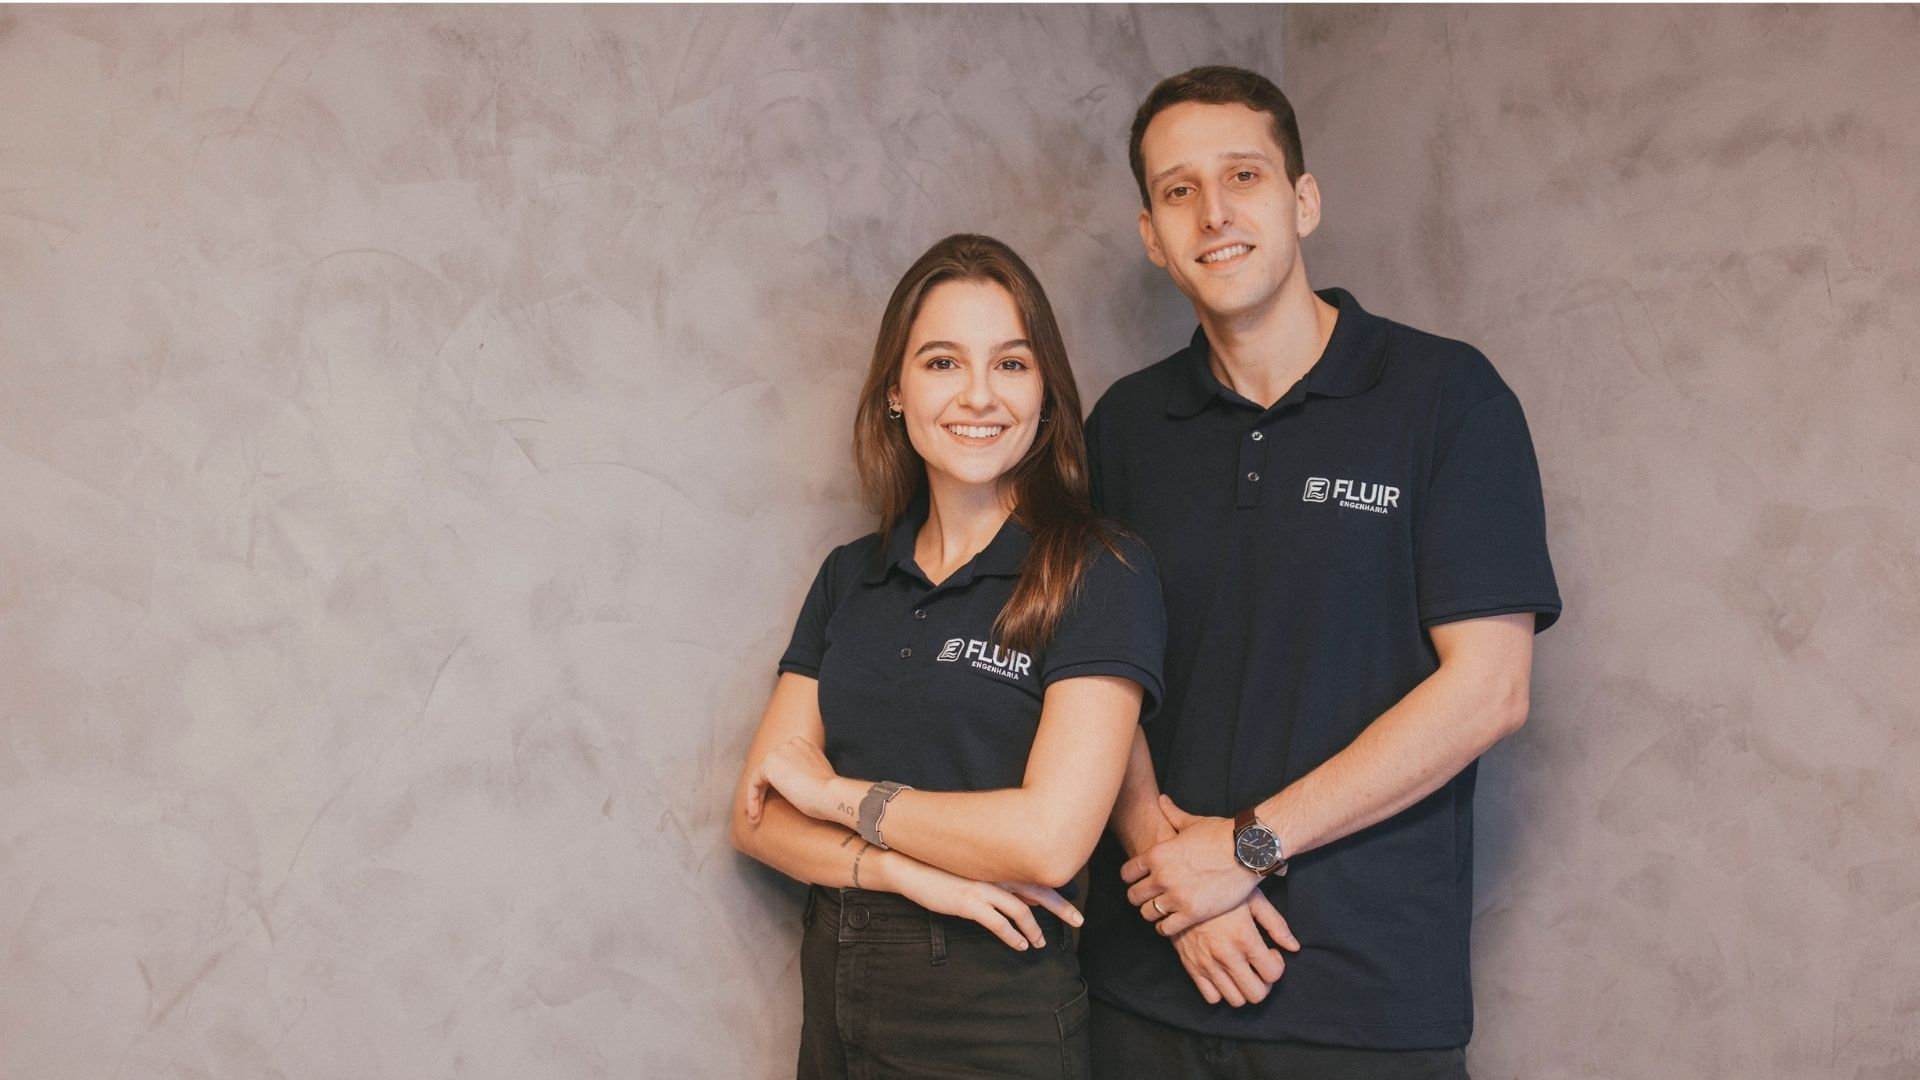
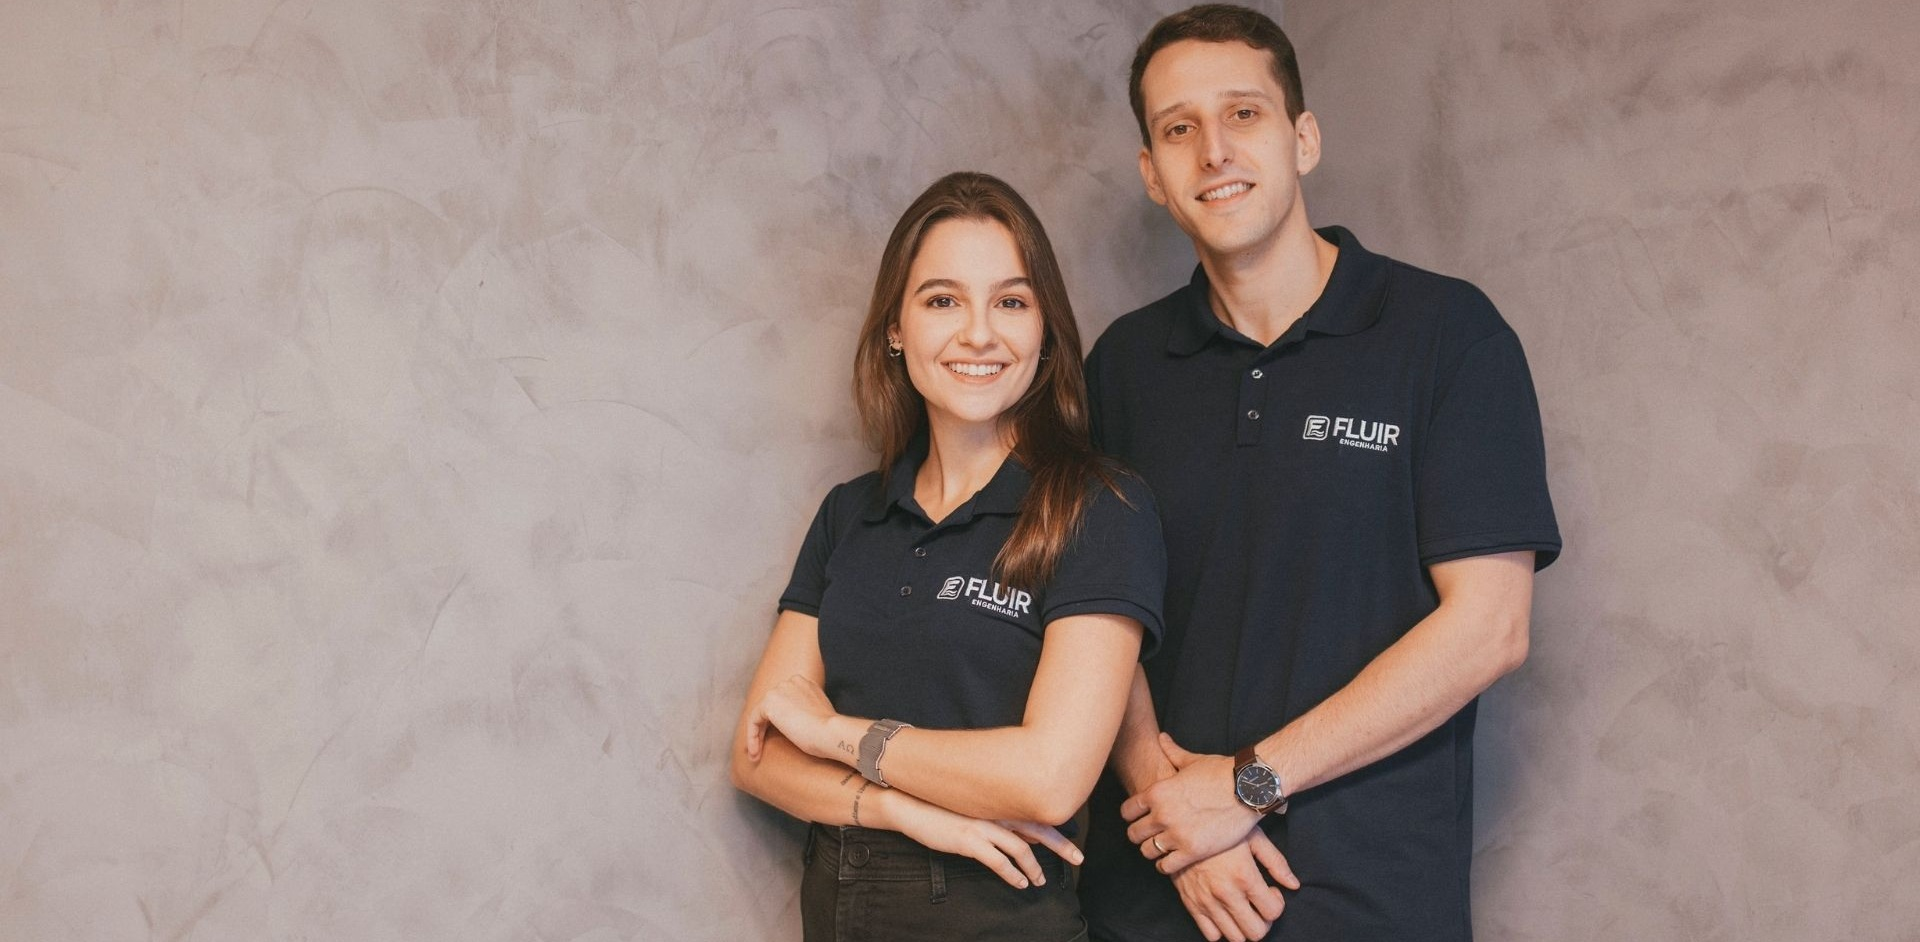
Updates

diff --git a/index.html b/index.html
@@ -9,7 +9,7 @@
     <link rel="preconnect" href="https://fonts.googleapis.com" />
     <link rel="preconnect" href="https://fonts.gstatic.com" crossorigin />
     <link href="https://fonts.googleapis.com/css2?family=Poppins:wght@400;500;600;700;800&display=swap" rel="stylesheet" />
-    <script type="module" crossorigin src="/FluirEngenhariaSystem/assets/index-a88a23a5.js"></script>
+    <script type="module" crossorigin src="/FluirEngenhariaSystem/assets/index-3cb95c5e.js"></script>
     <link rel="stylesheet" href="/FluirEngenhariaSystem/assets/index-52b28149.css">
   </head>
   <body>